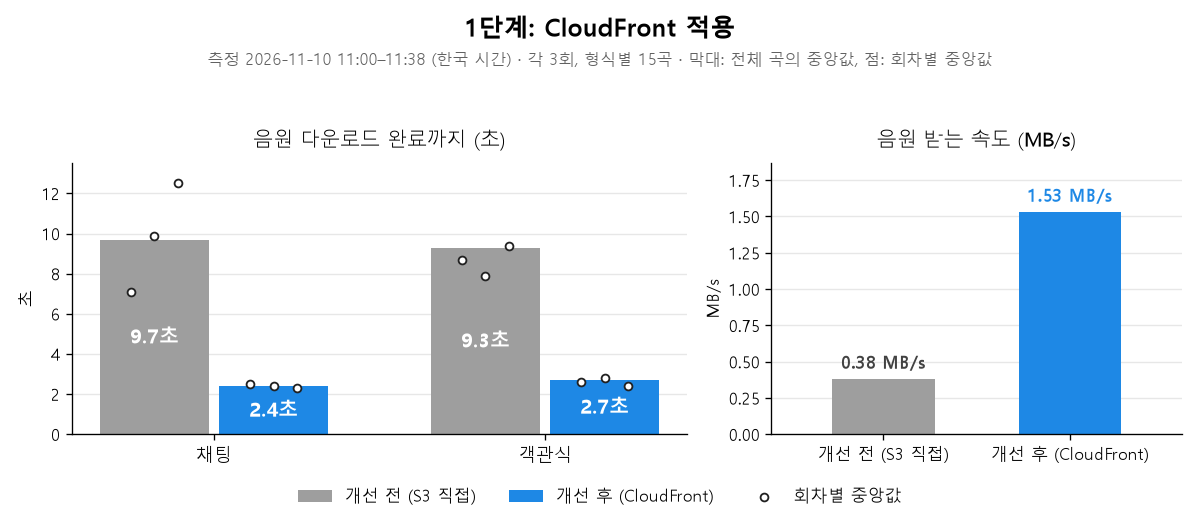
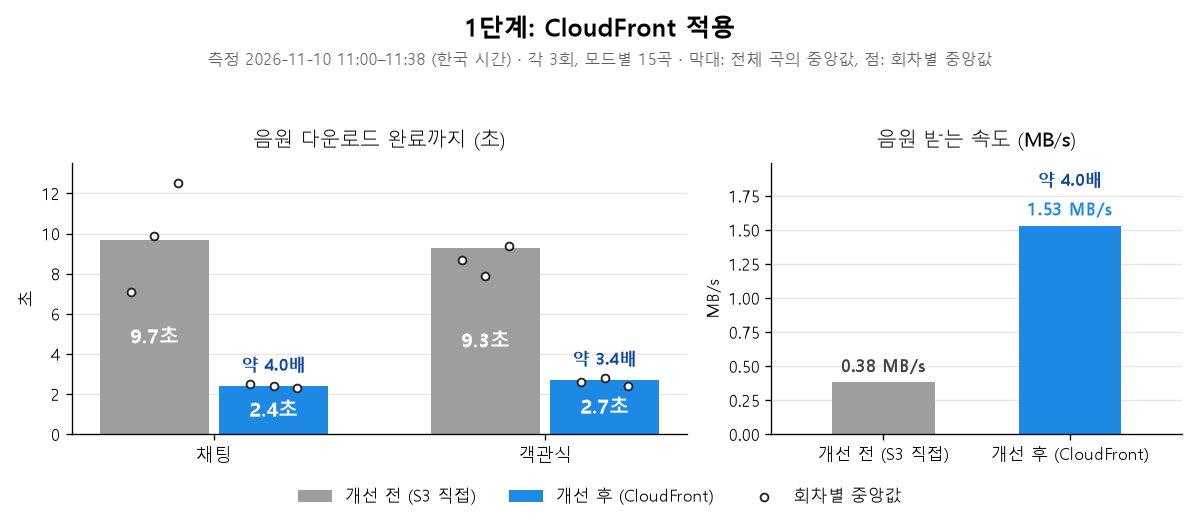
docs(106): cost sources (appendix D), retaken capture D in detail, lesson wording, x-factor labels

diff --git a/perf/compare.py b/perf/compare.py
@@ -17,7 +17,7 @@ import sys
 from datetime import datetime
 from pathlib import Path
 
-from comparelib import load, summarize_group
+from comparelib import load, ratio, summarize_group
 from perflib import EN_DASH, FORMATS
 from report import FORMAT_NAMES, KST, plt, setup_font
 
@@ -64,7 +64,7 @@ def subtitle(before, after):
         runs = f"개선 전 {before['runs']}회, 개선 후 {after['runs']}회"
     counts = {g[fmt]["songs"] for g in (before, after) for fmt in FORMATS}
     if len(counts) == 1:
-        songs = f"형식별 {counts.pop()}곡"
+        songs = f"모드별 {counts.pop()}곡"
     else:
         songs = ", ".join(f"{FORMAT_NAMES[fmt]} {before[fmt]['songs']}/{after[fmt]['songs']}곡"
                           for fmt in FORMATS)
@@ -76,6 +76,14 @@ def subtitle(before, after):
 def _label(ax, x, y, text, colour):
     ax.annotate(text, (x, y), xytext=(0, 4), textcoords="offset points",
                 ha="center", va="bottom", fontsize=11, fontweight="bold", color=colour)
+
+
+def _ratio_label(ax, x, y, factor, lift=4):
+    """"약 N배" above a point; nothing when the ratio cannot be computed."""
+    if factor is None:
+        return
+    ax.annotate(f"약 {factor:.1f}배", (x, y), xytext=(0, lift), textcoords="offset points",
+                ha="center", va="bottom", fontsize=10, fontweight="bold", color="#0D47A1")
 
 
 def _inner_label(ax, x, value):
@@ -104,6 +112,10 @@ def time_panel(ax, before, after, labels):
                            zorder=3, label="회차별 중앙값" if i == 0 and group is before else None)
             top = max([top, value or 0] + runs)
             _inner_label(ax, x, value)
+            if group is after:
+                # How many times shorter the wait got, over the after bar and its dots.
+                _ratio_label(ax, x, max([value or 0] + runs),
+                             ratio(before[fmt]["audio_done_s"], value), lift=6)
     ax.set_xticks(range(len(FORMATS)), [FORMAT_NAMES[f] for f in FORMATS], fontsize=11)
     ax.set_ylim(0, top * 1.08 if top else 1)
     ax.set_ylabel("초")
@@ -118,10 +130,12 @@ def speed_panel(ax, before, after, labels):
     ax.bar([0, 1], [v or 0 for v in values], 0.55, color=colours)
     for x, v, c in zip((0, 1), values, ("#424242", AFTER_COLOUR)):
         _label(ax, x, v or 0, "없음" if v is None else f"{v:.2f} MB/s", c)
+    # How many times faster; sits above the after bar's MB/s label.
+    _ratio_label(ax, 1, values[1] or 0, ratio(values[1], values[0]), lift=22)
     ax.set_xticks([0, 1], [labels[0], labels[1]], fontsize=10)
     ax.set_xlim(-0.6, 1.6)
     top = max(v or 0 for v in values)
-    ax.set_ylim(0, top * 1.22 if top else 1)
+    ax.set_ylim(0, top * 1.3 if top else 1)
     ax.set_ylabel("MB/s")
     ax.set_title("음원 받는 속도 (MB/s)", fontsize=12, pad=10)
     ax.grid(axis="y", alpha=0.3)

diff --git a/perf/comparelib.py b/perf/comparelib.py
@@ -91,3 +91,11 @@ def summarize_group(results):
                     key=lambda t: datetime.fromisoformat(t.replace("Z", "+00:00")))
     summary["times"] = (stamps[0], stamps[-1]) if stamps else None
     return summary
+
+
+def ratio(numerator, denominator):
+    """numerator / denominator rounded to 1 decimal ("약 N배"), or None when
+    either is missing or the denominator is not positive."""
+    if numerator is None or denominator is None or denominator <= 0:
+        return None
+    return round(numerator / denominator, 1)

diff --git a/perf/test_compare.py b/perf/test_compare.py
@@ -96,3 +96,11 @@ def test_run_without_values_is_left_out(lib):
     choice = lib.summarize_group([empty])["choice"]
     assert choice == {"audio_done_s": None, "run_medians_s": [], "run_min_s": None,
                       "run_max_s": None, "mb_per_s": None, "ready": 0, "songs": 0}
+
+
+def test_ratio(lib):
+    assert lib.ratio(9.7, 2.4) == 4.0
+    assert lib.ratio(1.53, 0.38) == 4.0
+    assert lib.ratio(None, 2.4) is None
+    assert lib.ratio(9.7, None) is None
+    assert lib.ratio(9.7, 0) is None

diff --git a/docs/performance.md b/docs/performance.md
@@ -1,6 +1,6 @@
 # SongRush 성능 개선: 곡 준비 대기 시간
 
-> **요약:** 곡마다 음원을 받느라 보통 7~10초, 회선이 나쁘면 20초 넘게 기다렸습니다. 측정해 보니 곡당 3.6 MB 음원을 호주 시드니의 저장소에서 한국까지 직접 받는 구조가 원인이었습니다. **CloudFront를 거쳐 받도록 바꿔 음원 대기를 채팅 9.7초 → 2.4초, 객관식 9.3초 → 2.7초로 약 4배 줄였습니다.** 같은 날 전후를 각 3회 측정한 결과입니다.
+> **요약:** 곡마다 음원을 받느라 보통 5~10초, 회선이 나쁘면 20초 넘게 기다렸습니다. 측정해 보니 곡당 3.6 MB 음원을 호주 시드니의 저장소에서 한국까지 직접 받는 구조가 원인이었습니다. **CloudFront를 거쳐 받도록 바꿔 음원 대기를 채팅 9.7초 → 2.4초, 객관식 9.3초 → 2.7초로 약 3.4~4배 줄였습니다.** 같은 날 전후를 각 3회 측정한 결과입니다.
 
 ![1단계 전후 비교: 음원 다운로드 완료까지 9.7초 → 2.4초, 받는 속도 0.38 → 1.53 MB/s](perf/step1/compare-step1.png)
 
@@ -107,10 +107,10 @@
   - 파일을 바꾸지 않고 받는 경로만 바꾸면 모든 곡에 바로 효과가 있습니다.
 - **한 일:**
   - 서버는 60초 뒤 만료되는 저장소(S3) 다운로드 주소를 만듭니다. 이 주소의 도메인만 CloudFront 주소로 바꿨습니다(서버 코드 한 곳).
-  - 플레이어는 인천의 CloudFront 엣지에 접속합니다(응답 헤더 `x-amz-cf-pop: ICN57-P4`). CloudFront는 AWS 내부망으로 시드니에서 파일을 가져옵니다.
+  - 플레이어는 인천의 CloudFront 엣지에 접속합니다(응답 헤더 `x-amz-cf-pop: ICN57-P4`). CloudFront는 AWS 내부망으로 시드니에서 파일을 가져옵니다(CloudFront의 일반적인 동작).
   - 서버 설정 한 줄로 켜고 끌 수 있게 만들어, 같은 날 전후를 비교했습니다.
 - **결과:**
-  - 음원 대기가 약 4배 줄었습니다. 받는 속도는 중앙값 0.38 → 1.53 MB/s입니다.
+  - 음원 대기가 약 3.4~4배 줄었습니다. 받는 속도는 중앙값 0.38 → 1.53 MB/s(약 4배)입니다.
   - 모든 곡이 시작 전에 준비되고, 앞부분을 놓친 곡도 없어졌습니다.
 
 ![개선 전: 객관식 곡 완료](perf/annotated/2026-11-10-devtools-choice-done-annotated.png)
@@ -122,7 +122,7 @@
 
 - **설계 판단:**
   - **대안과 비교:**
-    - S3 Transfer Acceleration도 같은 AWS 엣지망을 쓰지만, 전송 1 GB마다 추가 요금이 붙습니다.
+    - S3 Transfer Acceleration도 같은 AWS 엣지망을 쓰지만, 내려받기 1 GB마다 0.04달러가 일반 전송 요금에 더해집니다.
     - 서울 리전에 저장소를 복제하면 저장 비용과 업로드 관리가 두 배가 되고, 서버는 여전히 시드니에 남습니다.
     - CloudFront는 서버 코드 한 곳과 콘솔 설정만으로 끝나고, 무료 사용량 안에 들어옵니다.
   - **캐시는 쓰지 않습니다:** 주소마다 서명이 달라서 엣지에 저장해 둘 수 없습니다. 그래서 캐시를 끄고, 가까운 엣지 연결과 AWS 내부망의 효과만 씁니다.
@@ -130,11 +130,14 @@
     - 서명 검사는 저장소(S3)가 지금처럼 합니다.
     - 배포 전에 서명이 틀린 요청, 서명이 없는 요청, 만료된 요청이 모두 거절(403)되는 것을 확인했습니다.
     - 저장소의 기존 주소도 서명이 있으면 계속 쓸 수 있어서, 설정을 끄면 바로 이전 방식으로 돌아갑니다.
-  - **비용:** CloudFront 무료 사용량(월 1 TB 전송, 1천만 요청) 안이고, S3에서 CloudFront로 가는 전송은 무료입니다.
+  - **비용:**
+    - CloudFront 종량제의 상시 무료 사용량(매달 전송 1 TB, 요청 1천만 건) 안에 들고, S3에서 CloudFront로 가는 전송은 무료입니다.
+    - 곡당 최대 약 5.5 MB라 월 1 TB는 약 18만 곡 분량입니다([상세 부록 D](performance-detail.md#부록-d-1단계-비용-근거-2026-11-10-확인), 2026-11-10 AWS 요금 페이지 기준).
   - **남은 것:** 서버를 한 번 거치는 302 응답(0.27~0.54초)은 그대로입니다.
 - **배운 점:**
-  - 처음에는 파일 크기(음질)를 주원인으로 봤습니다. 그런데 파일은 그대로 두고 경로만 바꿨는데 4배가 빨라졌습니다.
-  - 이 환경에서는 파일 크기보다 **먼 거리 때문에 느린 연결**이 더 큰 병목이었습니다. 측정으로 처음의 가설을 바로잡은 셈입니다.
+  - 받는 시간은 "파일 크기 ÷ 받는 속도"입니다. 처음에는 파일 크기를 줄이는 쪽을 먼저 봤습니다.
+  - 그런데 파일과 음질은 그대로 두고 경로만 바꿔도 속도가 4배 올랐습니다. **음질을 잃지 않고 먼저 할 수 있는 개선**을 측정으로 찾은 셈입니다.
+  - 파일 크기 줄이기는 회선이 나쁠 때를 대비해 여전히 유효한 다음 후보입니다.
 - **목표 대비:** "모든 곡이 시작 전에 준비"와 "놓친 곡 0"은 달성했습니다. "곡 사이 대기 10초 이하"는 아직입니다(약 11~12초).
 - **다음 후보:**
   - 남은 대기 약 11~12초 중 8초는 정답 공개(5초)와 시작 예고(3초)로 정해진 시간입니다. 나머지 약 3.5초는 음원을 받는 시간(약 2.5초)과 모든 플레이어의 준비를 확인하는 시간입니다.

diff --git a/docs/performance-detail.md b/docs/performance-detail.md
@@ -212,14 +212,14 @@
 ### 4.5 첫 화면: JS가 압축되지 않는다
 - **압축 여부:** JS 367 KB와 CSS 45 KB를 `Accept-Encoding: gzip, br`로 요청해도 응답에 `Content-Encoding`이 없습니다. 서버에서 압축이 꺼져 있는 것으로 보입니다(부록 A-3).
 - **압축하면:** 같은 JS를 gzip으로 압축하면 **115 KB**입니다(부록 A-3).
-- **영향 범위:** 첫 화면 로딩(1.8~3.9초)에만 영향을 주고, 게임 중 대기에는 영향이 없습니다.
+- **영향 범위:** 첫 화면 로딩(기준값 측정 1.8~3.9초, 캡처 D 1회는 4.6초)에만 영향을 주고, 게임 중 대기에는 영향이 없습니다.
 
-![개발자 도구: 첫 화면 로딩](../perf/results/shots/2026-11-10-devtools-pageload.png)
+![개발자 도구: 첫 화면 로딩](../perf/results/shots/2026-11-10-pageload2-devtools-pageload.png)
 
-*캡처 D. 캐시를 끄고 본 첫 화면 로딩(2026-11-10 09:59 KST). 글꼴 파일 행은 필터로 숨겼습니다.*
-- *`index-BL8wr47a.js`는 전송 **368 kB**, 원본 367 kB로 거의 같고, **Content-Encoding 칸이 비어 있습니다**. 즉 압축 없이 옵니다.*
+*캡처 D. 캐시를 끄고 본 첫 화면 로딩(2026-11-10 12:15 KST, 1회). 글꼴 파일 행은 필터로 숨겼습니다.*
+- *`index-BL8wr47a.js`는 전송 **368 kB**, 원본 367 kB로 거의 같고, **Content-Encoding 칸이 비어 있습니다**. 즉 압축 없이 오고, 받는 데 4.33초가 걸렸습니다.*
 - *같은 화면의 Google Fonts 스타일시트(`css2`)는 Content-Encoding이 **gzip**이고, 전송 173 kB, 원본 737 kB입니다. 압축하면 이렇게 줄어든다는 비교입니다.*
-- *이 실행에서는 문서(`animeopguessr.com`) 응답이 14.7초로 비정상적으로 느렸습니다. 같은 시각 `curl`로는 0.83~0.90초였으므로, 측정 브라우저 쪽 지연으로 보고 로딩 시간 수치로는 쓰지 않습니다. 첫 화면 로딩 시간은 3장의 측정값(1.8~3.9초)을 씁니다.*
+- *이 캡처의 로딩 완료(Load)는 4.61초로, 기준값 측정의 1.8~3.9초보다 깁니다. 캐시를 끄고 한 번 잰 값이라 범위 밖일 수 있습니다. 같은 날 오전에는 브라우저 쪽 지연으로 문서 응답만 14.7초가 걸린 캡처가 있어 다시 찍었습니다(원본 `perf/results/shots/2026-11-10-devtools-pageload.png`).*
 
 ### 4.6 원인 요약
 | 원인 | 영향 | 근거 |
@@ -348,3 +348,10 @@ song 3 CloudFront 3.65 MB in 2.74 s = 1.33 MB/s
 같은 때의 보안 확인 결과도 있습니다. 정상 서명은 200이었고, 서명을 바꾼 요청, 서명이 없는 요청, 60초가 지나 만료된 요청은 모두 403이었습니다. 403 직후의 정상 요청도 200이어서, 오류 응답이 저장되지 않는 것도 확인했습니다.
 
 적용 후 음원 응답의 `x-amz-cf-pop` 헤더는 `ICN57-P4`였습니다. 인천 엣지에서 받았다는 뜻입니다.
+
+
+## 부록 D. 1단계 비용 근거 (2026-11-10 확인)
+- **CloudFront:** 종량제(Pay as you go)에는 상시 무료 사용량이 있어, 매달 데이터 전송 1 TB와 HTTP/HTTPS 요청 1천만 건까지 무료입니다. AWS 무료 이용 안내에 따르면 이 상시 무료는 Free 플랜과 유료 플랜 모두에 적용됩니다. 출처: [CloudFront 요금](https://aws.amazon.com/cloudfront/pricing/), [AWS 무료 이용 - 네트워킹](https://aws.amazon.com/free/networking/).
+- **S3 → CloudFront 전송:** S3 같은 AWS 원본에서 CloudFront로 가는 전송은 무료입니다. 출처: [CloudFront FAQ](https://aws.amazon.com/cloudfront/faqs/).
+- **사용량 추정:** 한 곡에 음원 약 3.6 MB와 객관식 표지 약 1.5~2 MB를 받으므로, 곡당 최대 약 5.5 MB입니다. 월 1 TB는 약 18만 곡 분량입니다. 친구들과 하는 게임의 사용량으로는 무료 범위 안입니다. 요청 수도 곡당 최대 7건(음원 1, 표지 6)이라 1천만 건까지 여유가 큽니다.
+- **비교한 대안, S3 Transfer Acceleration:** 내려받기 1 GB마다 0.04달러가 일반 데이터 전송 요금에 더해집니다. 출처: [S3 요금](https://aws.amazon.com/s3/pricing/).
